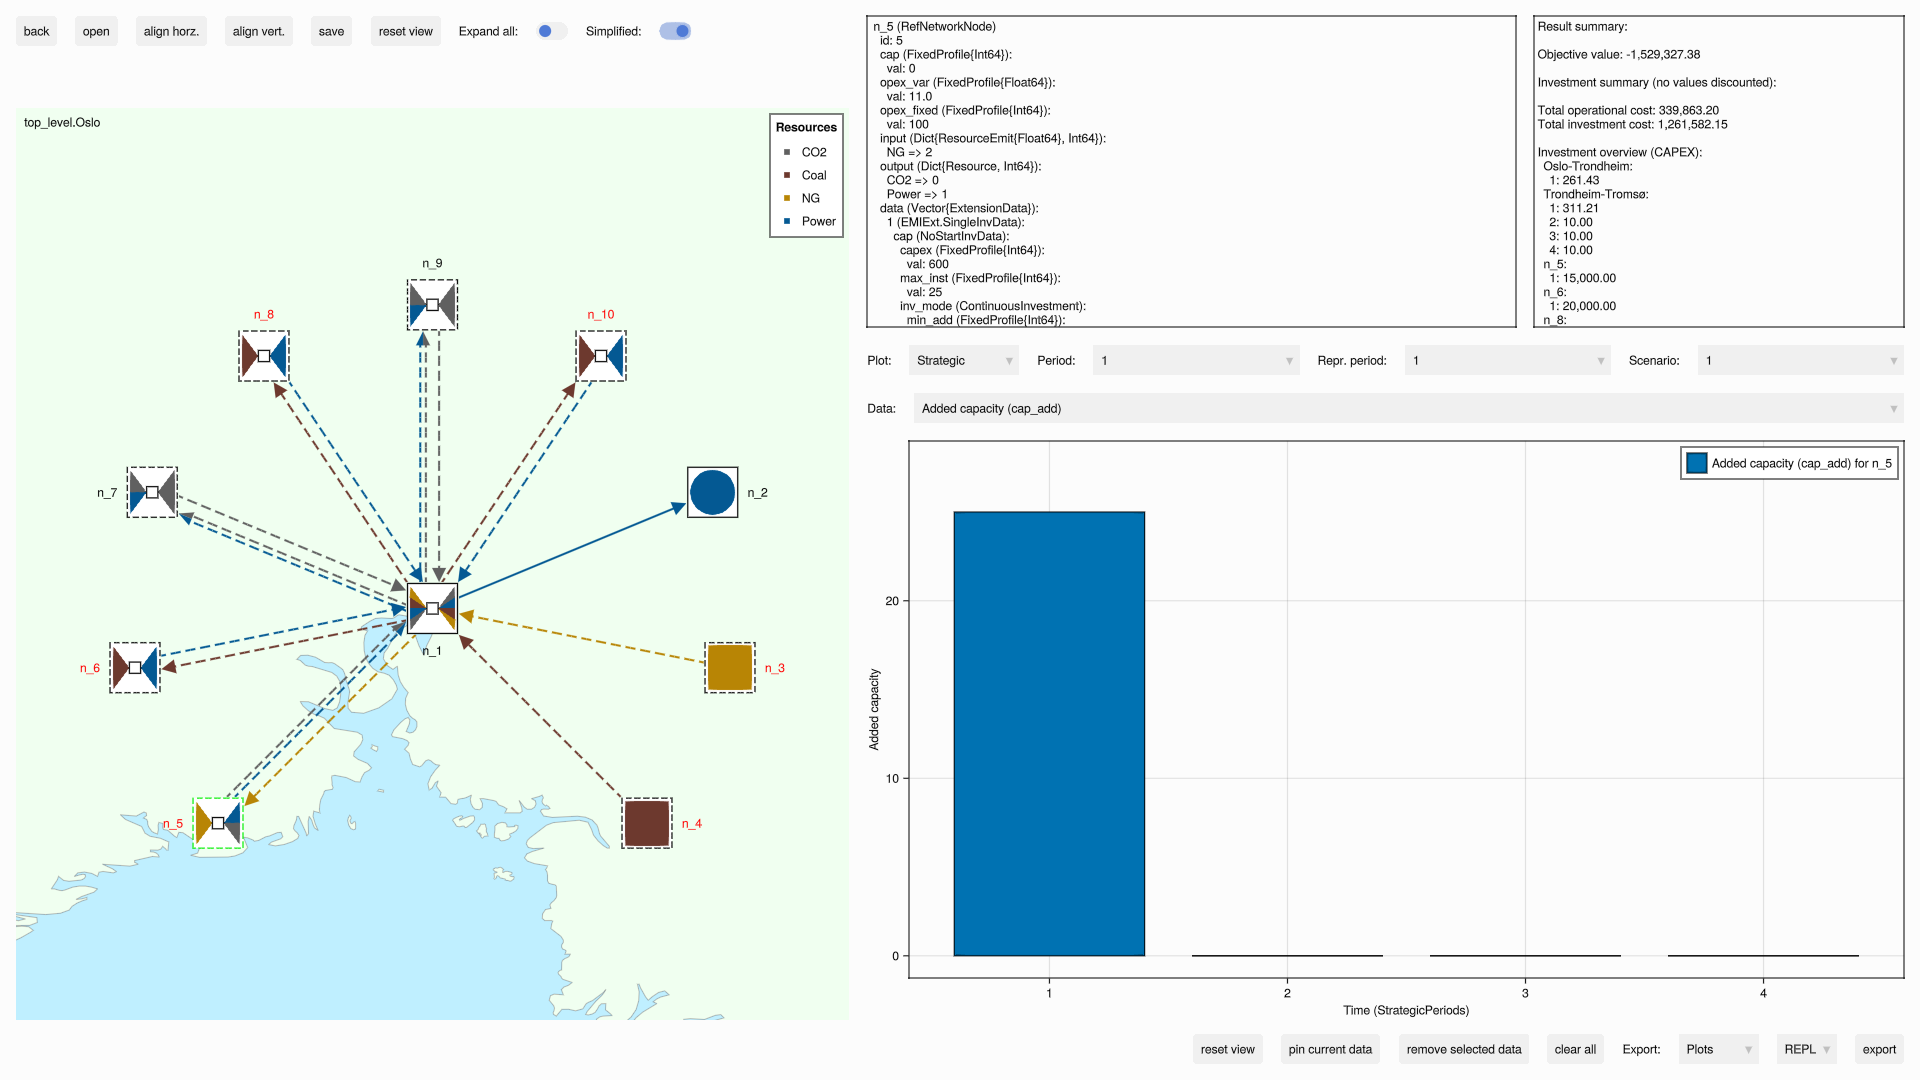
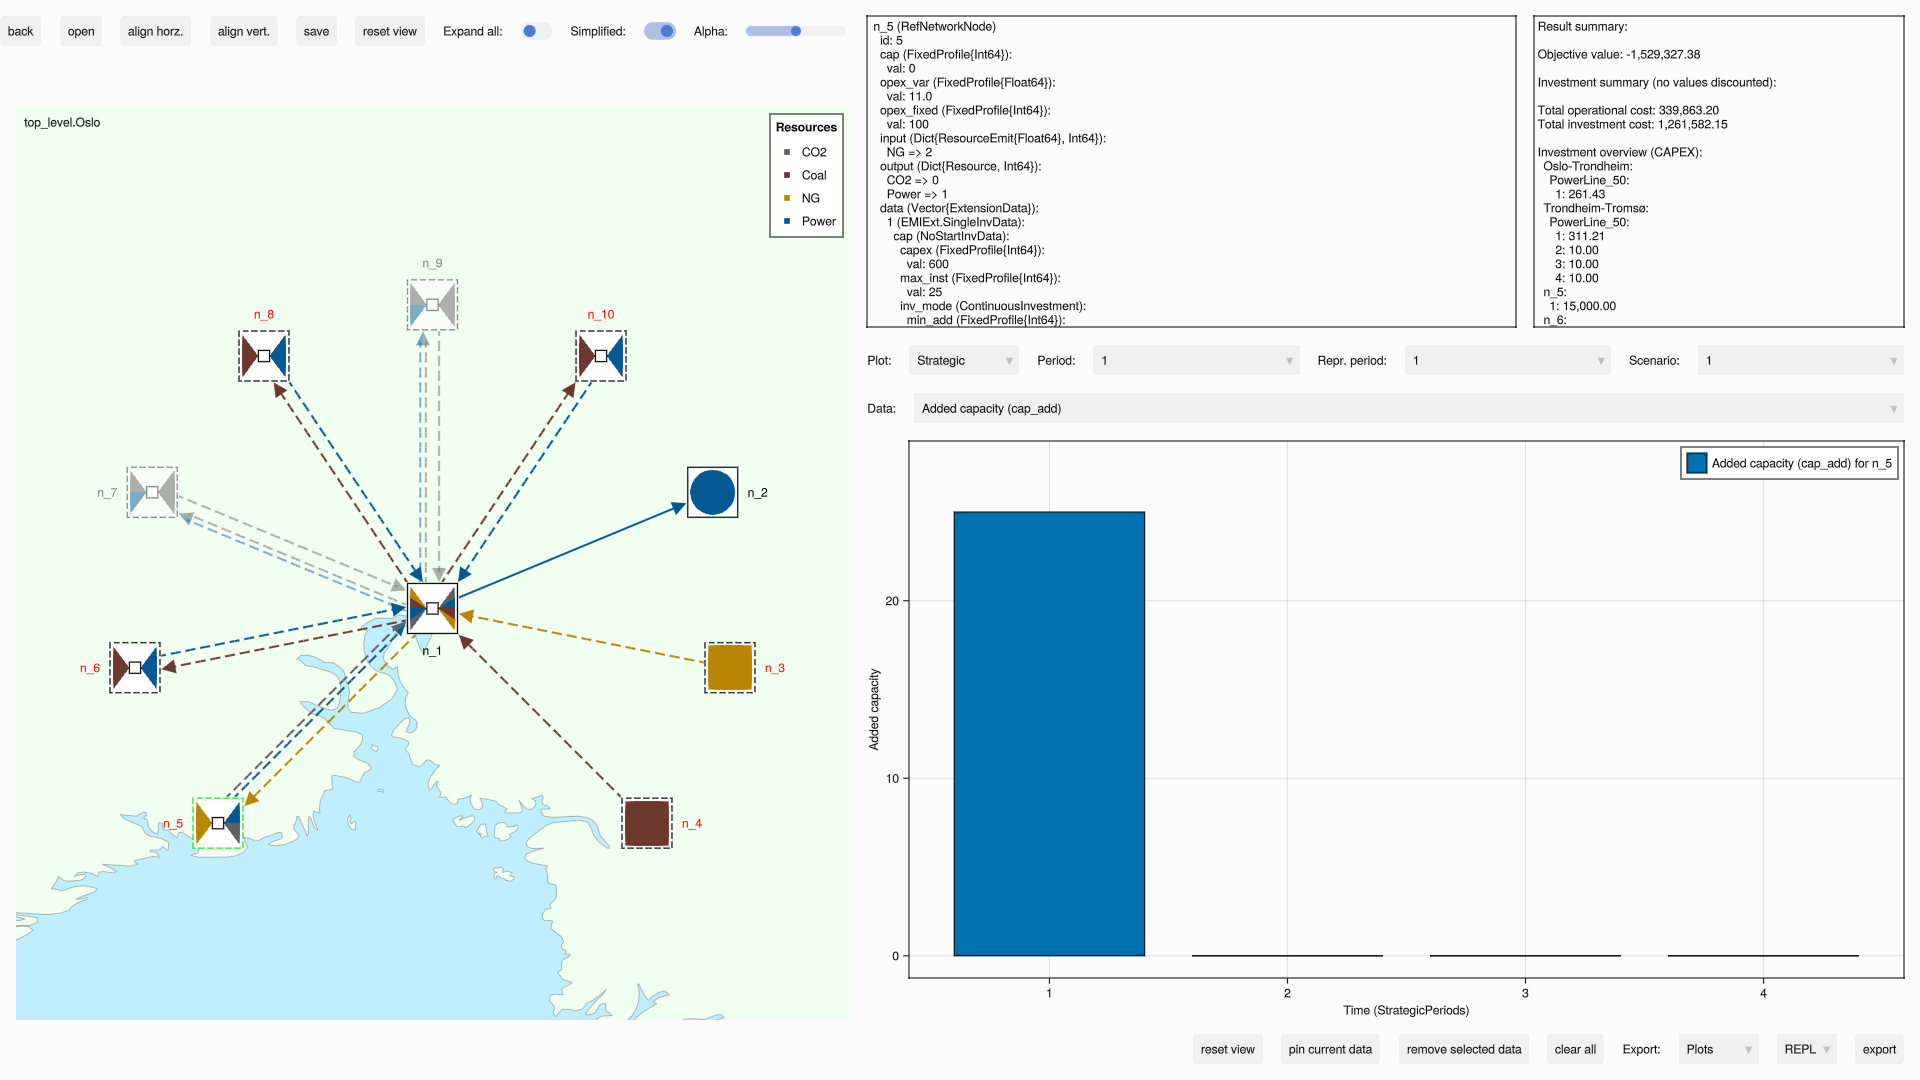
Enhanced investment visualizations (#53)

diff --git a/docs/src/manual/simple-example.md b/docs/src/manual/simple-example.md
@@ -58,6 +58,8 @@ You should then get the following GUI:
        The location of these files can be assigned through the `design_path` input parameter to the `GUI` function (this feature has the shortcut `ctrl+s`).
     6. `reset view`: Reset the view to the optimal view based on the current system if the view has been altered (this feature has the shortcut `ctrl+r`).
     7. `Expand all`: Toggle this to show/hide all components of all `Area`s.
+    8. `Simplified`: Toggle this to use simplified connection plotting for the current level by default; it also applies to expanded sub-levels when `Expand all` is enabled, or when `simplify_all_levels` was enabled when constructing the GUI.
+    9. `Alpha`: Adjust the transparency of the components not being invested in.
 
 !!! note "Top right text areas"
     The first text area (to the left) shows some tips of using the GUI by defult, but is temporarily changed upon a selection of an EMX object in which information of this object is shown.

diff --git a/NEWS.md b/NEWS.md
@@ -1,11 +1,16 @@
 # Release notes
 
-## Unversioned (2026-05-19)
+## Version 0.7.2 (2026-05-20)
 
 ### Adjustments
 
 * If coordinates have not been saved to a design file for the nodes under an `Area`, they are now placed *symmetrically* around the circle (that is, accounting for one node being the `GeoAvailability` node to be placed at the center).
 * The default value for the radius of the circle for placing nodes without coordinates is now a third of the minimal distance between area coordinates defined in the `top_level` design file.
+* Show investments into individual `TransmissionMode`s in the investment overview and in the information box appearing when hovering over an object.
+
+### Enhancements
+
+* Enabled the user to adjust the alpha value of EMGUI-objects not invested in.
 
 ## Version 0.7.1 (2026-04-24)
 
